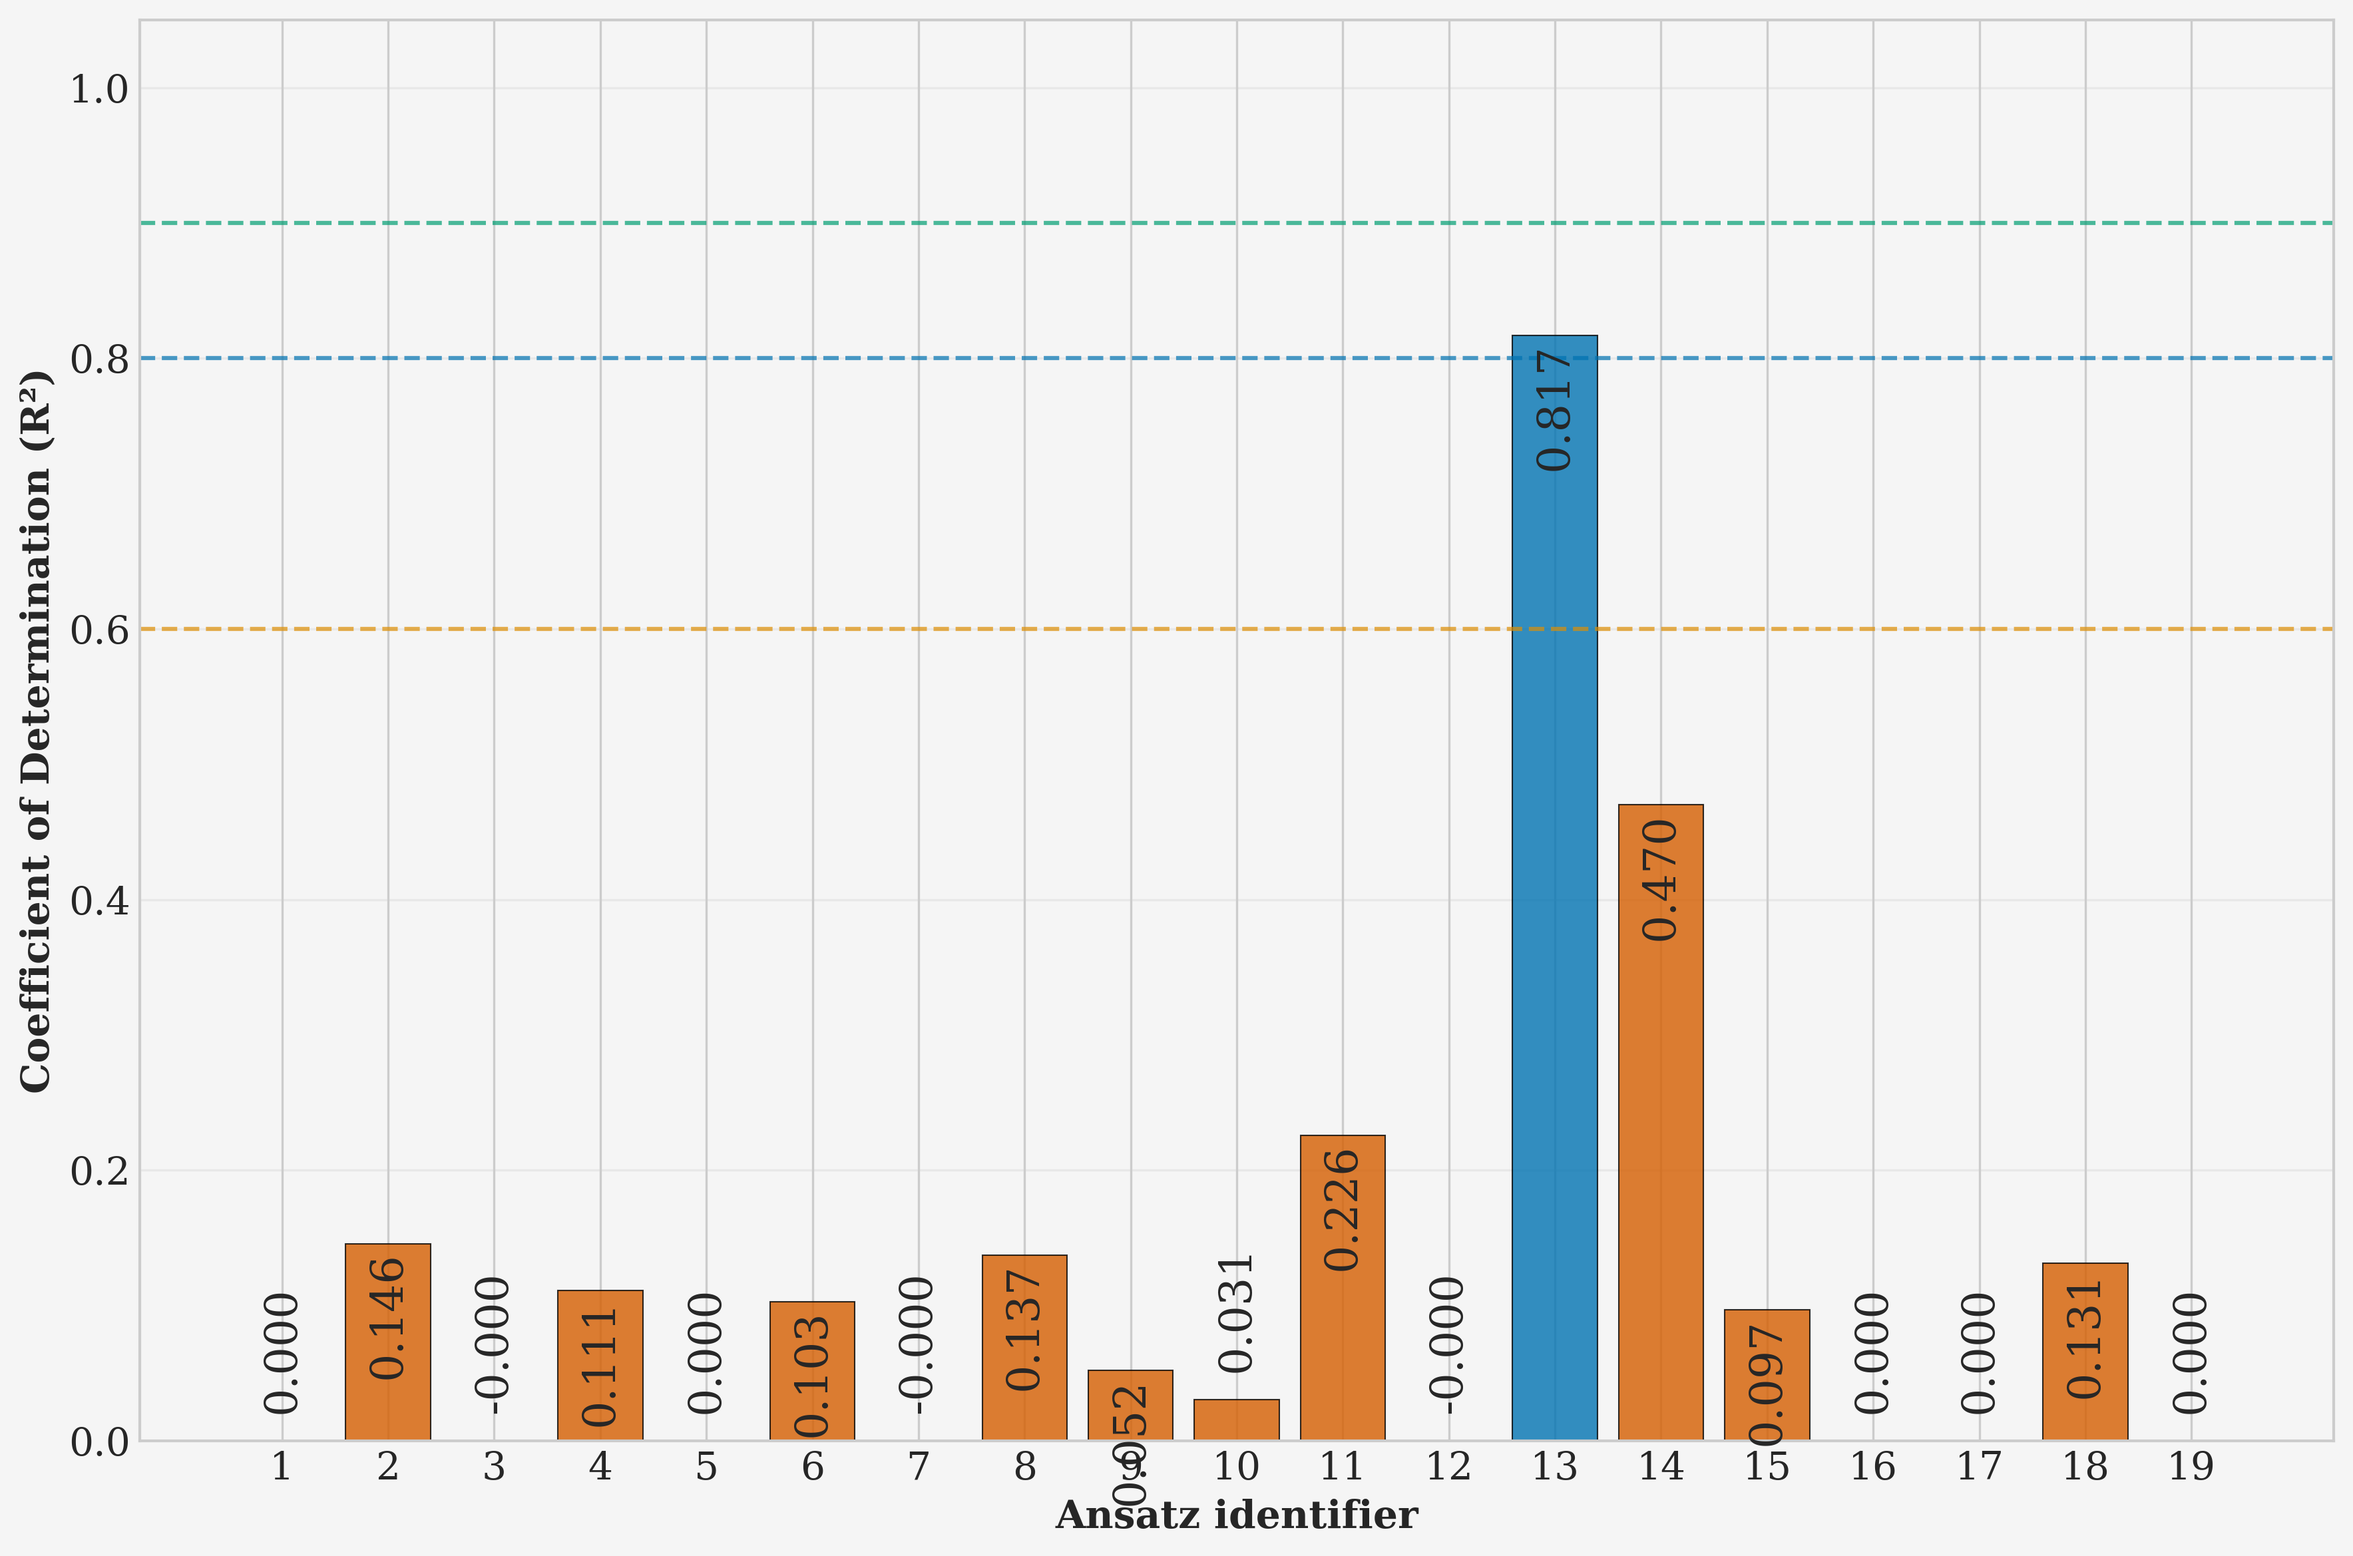
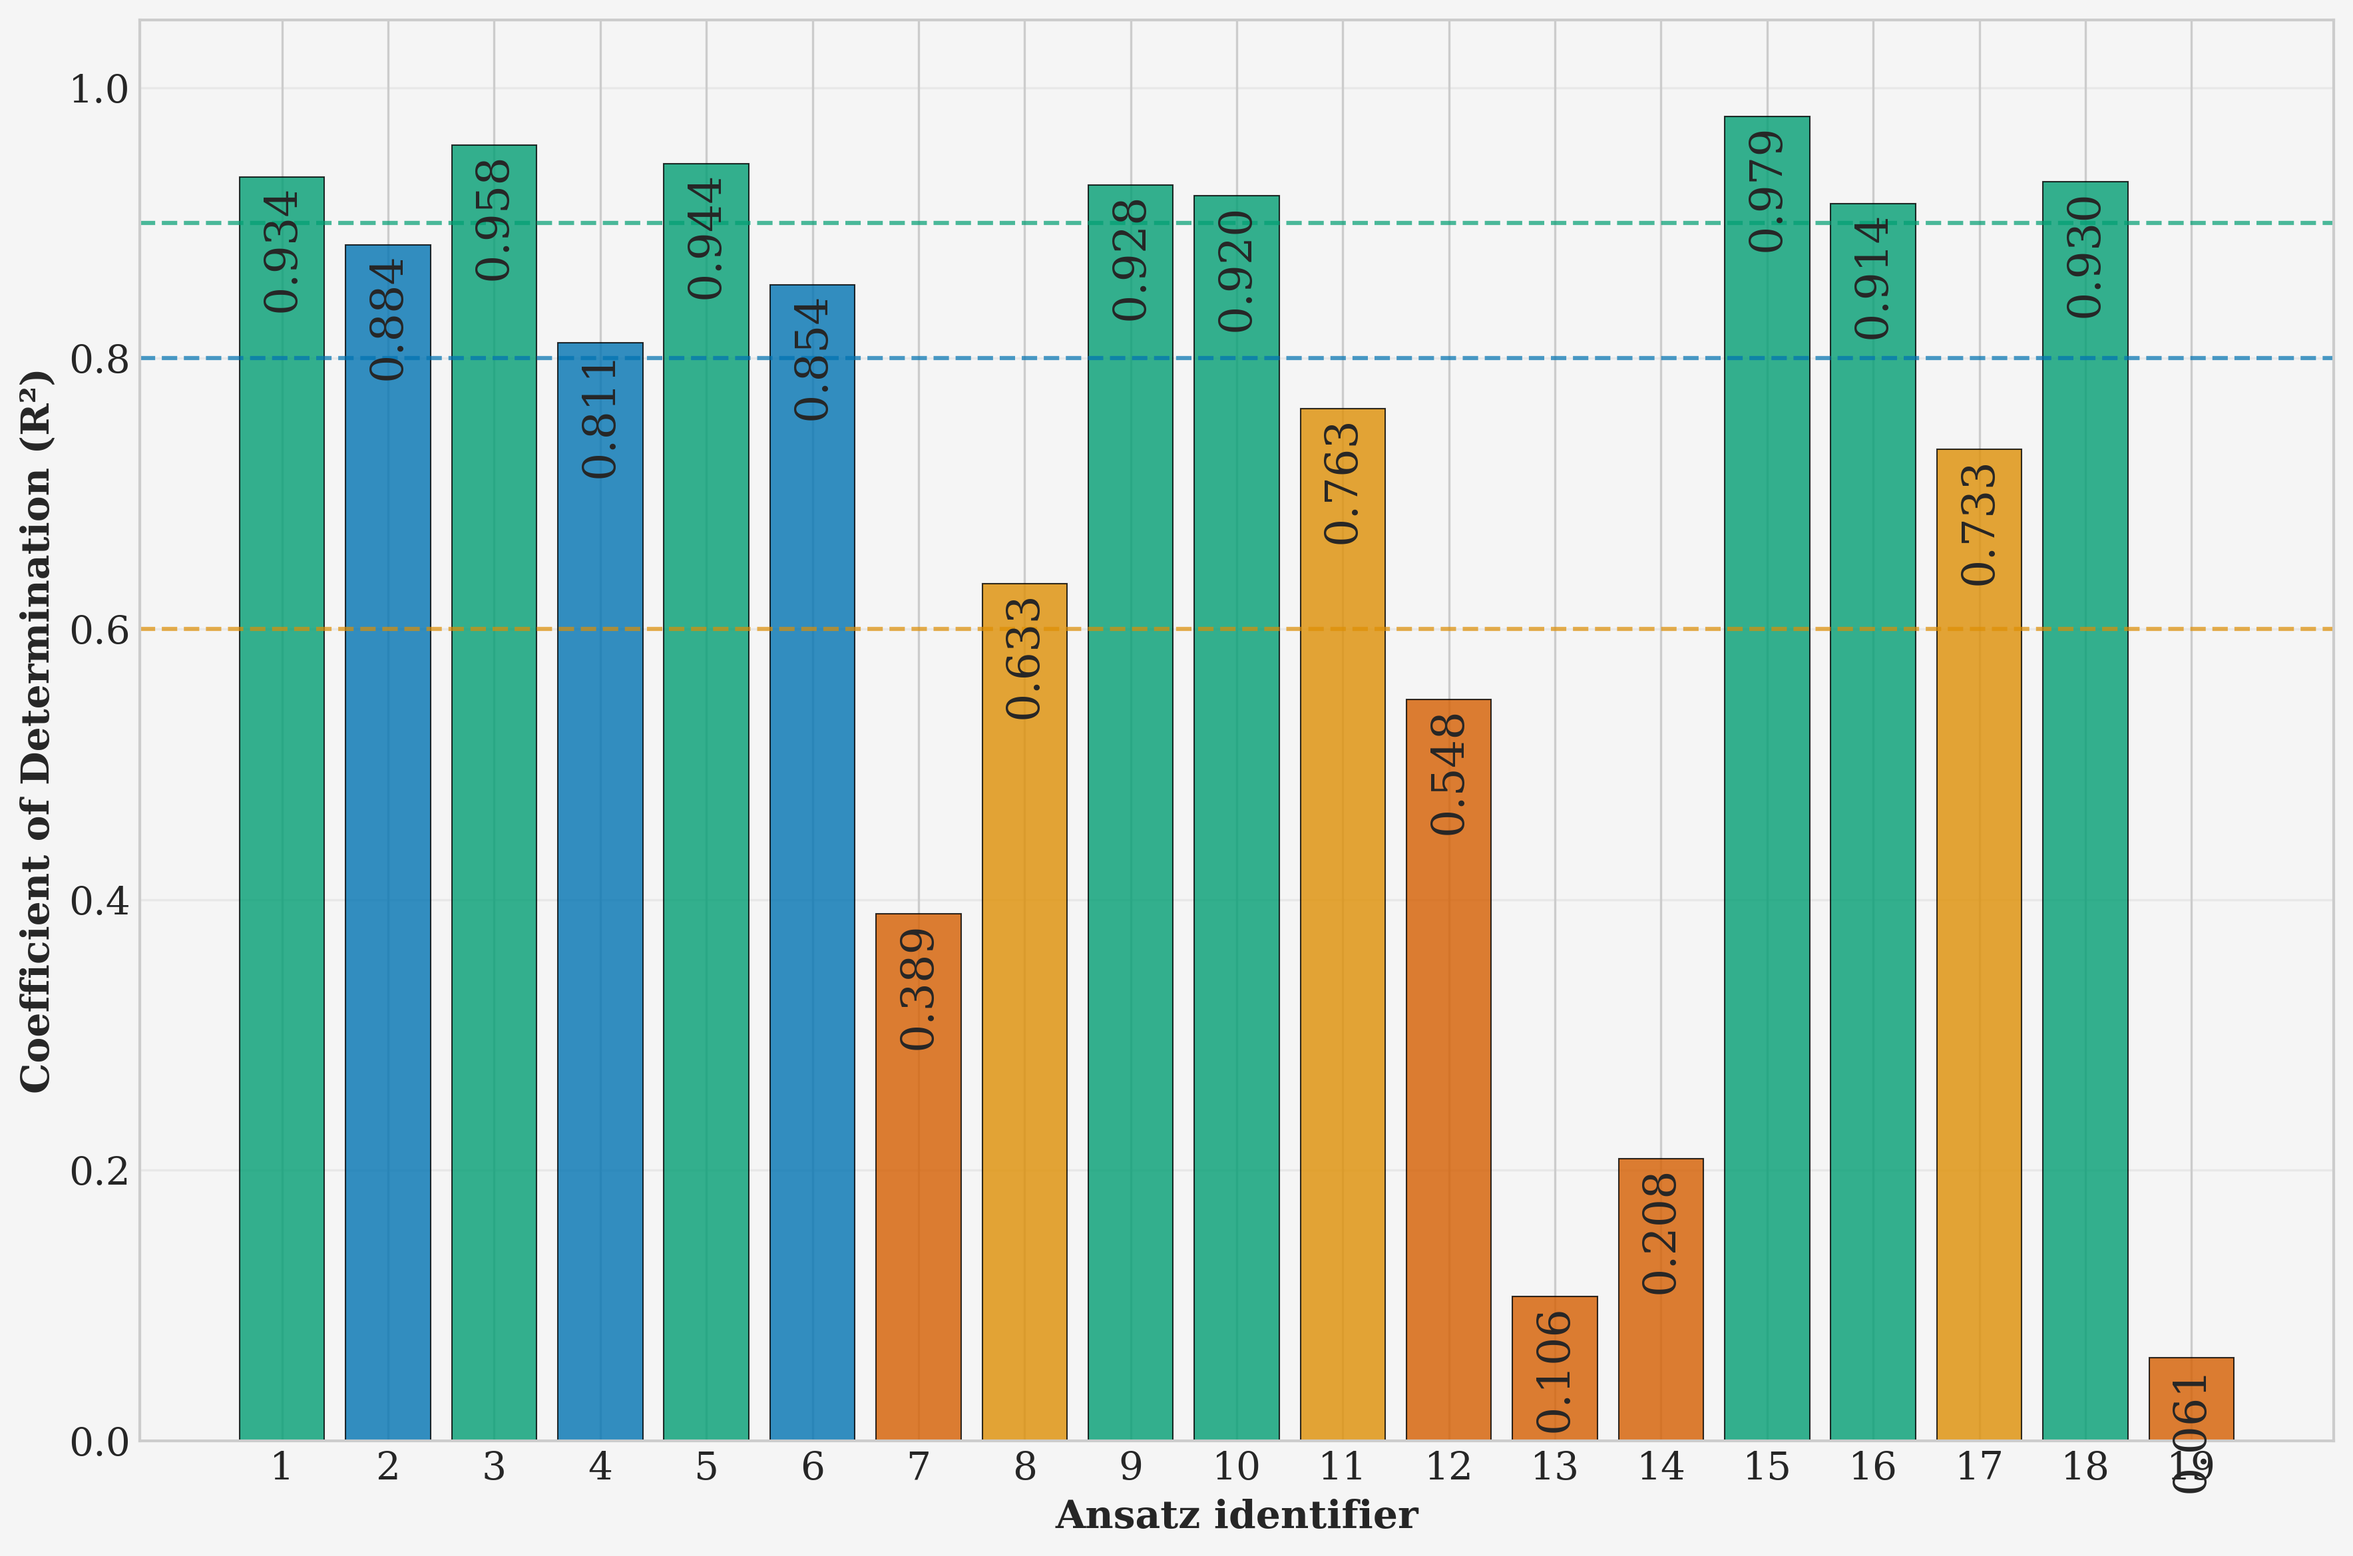
Update amplitude encoding

diff --git a/permutation_amplitude_encoding.py b/permutation_amplitude_encoding.py
@@ -1,37 +1,39 @@
 import json
 import os
-import numpy as np
+from pennylane import numpy as np
 import pennylane as qml
 from concurrent.futures import ProcessPoolExecutor
 from ansatz import Ansatz
 from efficient_symmetry_group import EfficientSymmetricGroup
 
 num_qubits = 13
-depth = 1
-ansatz_id = 10
 
-ansatz = Ansatz(ansatz_id, num_qubits, depth)
-params_shape_single_qubit, params_shape_two_qubit = ansatz.get_params_shape()
-circuit = ansatz.get_circuit()
+dev = qml.device("default.qubit", wires=num_qubits)
 
-dev = qml.device("lightning.qubit", wires=num_qubits)
-
-@qml.qnode(dev)
-def full_circuit(params, features):
-    qml.AmplitudeEmbedding(features, wires=range(num_qubits), normalize=True)
+def process_cycle(args):
+    """Process a single cycle - recreate circuit inside to avoid pickling issues."""
+    cycle, ansatz_id, depth, params_shape_single_qubit, params_shape_two_qubit = args
     
-    if params_shape_two_qubit is None:
-        circuit(params)
-    else:
-        circuit(params[0], params[1])
+    # Recreate the circuit inside the worker process
+    ansatz = Ansatz(ansatz_id, num_qubits, depth)
+    circuit = ansatz.get_circuit()
     
-    return qml.expval(qml.prod(*[qml.PauliZ(i) for i in range(num_qubits)]))
-
-
-def process_cycle(cycle):
-    features = list(cycle[2])
+    @qml.qnode(dev)
+    def full_circuit(params, features):
+        qml.AmplitudeEmbedding(features, wires=range(num_qubits), normalize=True)
+        
+        if params_shape_two_qubit is None:
+            circuit(params)
+        else:
+            circuit(params[0], params[1])
+        
+        return qml.expval(qml.prod(*[qml.PauliZ(i) for i in range(num_qubits)]))
+    
+    rotations = cycle[2]
+    features = [(rotations[i], rotations[i + 1]) for i in range(1, len(rotations) + 1, 2)]
     res = []
-    for _ in range(200):
+    
+    for _ in range(500):  # Reduced for faster execution
         if params_shape_two_qubit is None:
             params_single = np.random.uniform(-np.pi, np.pi, size=params_shape_single_qubit)
             result = full_circuit(params_single, features)
@@ -40,10 +42,16 @@ def process_cycle(cycle):
             params_two = np.random.uniform(-np.pi, np.pi, size=params_shape_two_qubit)
             result = full_circuit([params_single, params_two], features)
         res.append(result)
+    
     return np.mean(res)
 
-
-if __name__ == '__main__':
+def run_experiment(depth, ansatz_id):
+    """Run experiment for specific depth and ansatz."""
+    print(f"Starting experiment: Depth {depth}, Ansatz {ansatz_id}")
+    
+    # Get parameter shapes for this configuration
+    ansatz = Ansatz(ansatz_id, num_qubits, depth)
+    params_shape_single_qubit, params_shape_two_qubit = ansatz.get_params_shape()
     
     results = {}
     variances = {}
@@ -53,25 +61,88 @@ if __name__ == '__main__':
     end = int(np.ceil(n/2))
     num_points = 20
     k_values = np.linspace(start, end, num_points, dtype=int)
-
+    
     for k in k_values:
-        print("Processing", k, "cycles")
-        k_cycle_datasets = sym_group.generate_k_cycles_dataset(k=k, num_samples=1000)
-        n_cpus = os.cpu_count()
-        with ProcessPoolExecutor(max_workers=int(n_cpus-2)) as executor:
-            results[int(k)] = list(executor.map(process_cycle, k_cycle_datasets))
-    
-    for k, values in results.items():
-        print(k, "cycles variance is ", np.var(values))
-        variances[k] = np.var(values)
-    
-    file = f'amplitude_embedding_depth_{depth}.json'
-    if os.path.exists(file):
-        with open(file, 'r') as f:
-            existing_data = json.load(f)
-        existing_data[ansatz_id] = variances
-    else:
-        existing_data = {ansatz_id: variances}
+        print(f"  Processing {k} cycles (Depth {depth}, Ansatz {ansatz_id})")
         
-    with open(file, 'w') as f:
+        k_cycle_datasets = sym_group.generate_k_cycles_dataset(k=k, num_samples=500)
+        
+        # Prepare arguments for parallel processing (pass parameters instead of function)
+        args_list = [(cycle, ansatz_id, depth, params_shape_single_qubit, params_shape_two_qubit) 
+                     for cycle in k_cycle_datasets]
+        
+        #n_cpus = 50
+
+        # Calculate optimal distribution
+        num_cycles = len(args_list)
+        total_cpus = int(os.environ.get('SLURM_CPUS_PER_TASK', 50))
+
+        # For quantum circuits, balanced approach often works best
+        n_workers = min(num_cycles, total_cpus)  # 25 workers max
+        threads_per_worker = total_cpus // n_workers  # 2 threads each
+
+        print(f"Quantum simulation: {n_workers} workers × {threads_per_worker} threads on {total_cpus}")
+        print(f"Processing {num_cycles} cycles for k={k}")
+
+        # CRITICAL: Set threading limits for quantum circuit simulation
+        os.environ['OMP_NUM_THREADS'] = str(threads_per_worker)
+        os.environ['MKL_NUM_THREADS'] = str(threads_per_worker)
+        os.environ['NUMBA_NUM_THREADS'] = str(threads_per_worker)
+
+        with ProcessPoolExecutor(max_workers=n_workers) as executor:
+            results[int(k)] = list(executor.map(process_cycle, args_list))
+    
+    # Calculate variances
+    for k, values in results.items():
+        variance = np.var(values)
+        print(f"  {k} cycles variance: {variance}")
+        variances[k] = variance
+    
+    return variances
+
+def save_results(depth, ansatz_id, variances):
+    """Save results to JSON file."""
+    filename = f'amplitude_embedding_depth_{depth}.json'
+    
+    if os.path.exists(filename):
+        with open(filename, 'r') as f:
+            existing_data = json.load(f)
+    else:
+        existing_data = {}
+    
+    existing_data[str(ansatz_id)] = variances
+    
+    with open(filename, 'w') as f:
         json.dump(existing_data, f, indent=4)
+    
+    print(f"Results saved for Depth {depth}, Ansatz {ansatz_id}")
+
+if __name__ == '__main__':
+    # Define experiment parameters
+    depths = range(1, 5)      # Depths 1-4
+    ansatz_ids = range(1, 20) # Ansatz IDs 1-19
+    
+    total_experiments = len(depths) * len(ansatz_ids)
+    current_experiment = 0
+    
+    print(f"Starting {total_experiments} experiments...")
+    print("="*60)
+    
+    for depth in depths:
+        for ansatz_id in ansatz_ids:
+            current_experiment += 1
+            print(f"\nExperiment {current_experiment}/{total_experiments}")
+            print(f"Depth: {depth}, Ansatz ID: {ansatz_id}")
+            print("-" * 40)
+
+            # Run experiment
+            variances = run_experiment(depth, ansatz_id)
+            
+            # Save results
+            save_results(depth, ansatz_id, variances)
+            
+            print(f"✓ Completed: Depth {depth}, Ansatz {ansatz_id}")
+    
+    print("\n" + "="*60)
+    print("All experiments completed!")
+    print(f"Results saved in files: angle_embedding_depth_1.json to angle_embedding_depth_4.json")

diff --git a/results/old/permutation_amplitude_encoding.py b/results/old/permutation_amplitude_encoding.py
@@ -1,0 +1,77 @@
+import json
+import os
+import numpy as np
+import pennylane as qml
+from concurrent.futures import ProcessPoolExecutor
+from ansatz import Ansatz
+from efficient_symmetry_group import EfficientSymmetricGroup
+
+num_qubits = 13
+depth = 1
+ansatz_id = 10
+
+ansatz = Ansatz(ansatz_id, num_qubits, depth)
+params_shape_single_qubit, params_shape_two_qubit = ansatz.get_params_shape()
+circuit = ansatz.get_circuit()
+
+dev = qml.device("lightning.qubit", wires=num_qubits)
+
+@qml.qnode(dev)
+def full_circuit(params, features):
+    qml.AmplitudeEmbedding(features, wires=range(num_qubits), normalize=True)
+    
+    if params_shape_two_qubit is None:
+        circuit(params)
+    else:
+        circuit(params[0], params[1])
+    
+    return qml.expval(qml.prod(*[qml.PauliZ(i) for i in range(num_qubits)]))
+
+
+def process_cycle(cycle):
+    features = list(cycle[2])
+    res = []
+    for _ in range(200):
+        if params_shape_two_qubit is None:
+            params_single = np.random.uniform(-np.pi, np.pi, size=params_shape_single_qubit)
+            result = full_circuit(params_single, features)
+        else:
+            params_single = np.random.uniform(-np.pi, np.pi, size=params_shape_single_qubit)
+            params_two = np.random.uniform(-np.pi, np.pi, size=params_shape_two_qubit)
+            result = full_circuit([params_single, params_two], features)
+        res.append(result)
+    return np.mean(res)
+
+
+if __name__ == '__main__':
+    
+    results = {}
+    variances = {}
+    n = 2 ** num_qubits
+    sym_group = EfficientSymmetricGroup(n)
+    start = 1
+    end = int(np.ceil(n/2))
+    num_points = 20
+    k_values = np.linspace(start, end, num_points, dtype=int)
+
+    for k in k_values:
+        print("Processing", k, "cycles")
+        k_cycle_datasets = sym_group.generate_k_cycles_dataset(k=k, num_samples=1000)
+        n_cpus = os.cpu_count()
+        with ProcessPoolExecutor(max_workers=int(n_cpus-2)) as executor:
+            results[int(k)] = list(executor.map(process_cycle, k_cycle_datasets))
+    
+    for k, values in results.items():
+        print(k, "cycles variance is ", np.var(values))
+        variances[k] = np.var(values)
+    
+    file = f'amplitude_embedding_depth_{depth}.json'
+    if os.path.exists(file):
+        with open(file, 'r') as f:
+            existing_data = json.load(f)
+        existing_data[ansatz_id] = variances
+    else:
+        existing_data = {ansatz_id: variances}
+        
+    with open(file, 'w') as f:
+        json.dump(existing_data, f, indent=4)
